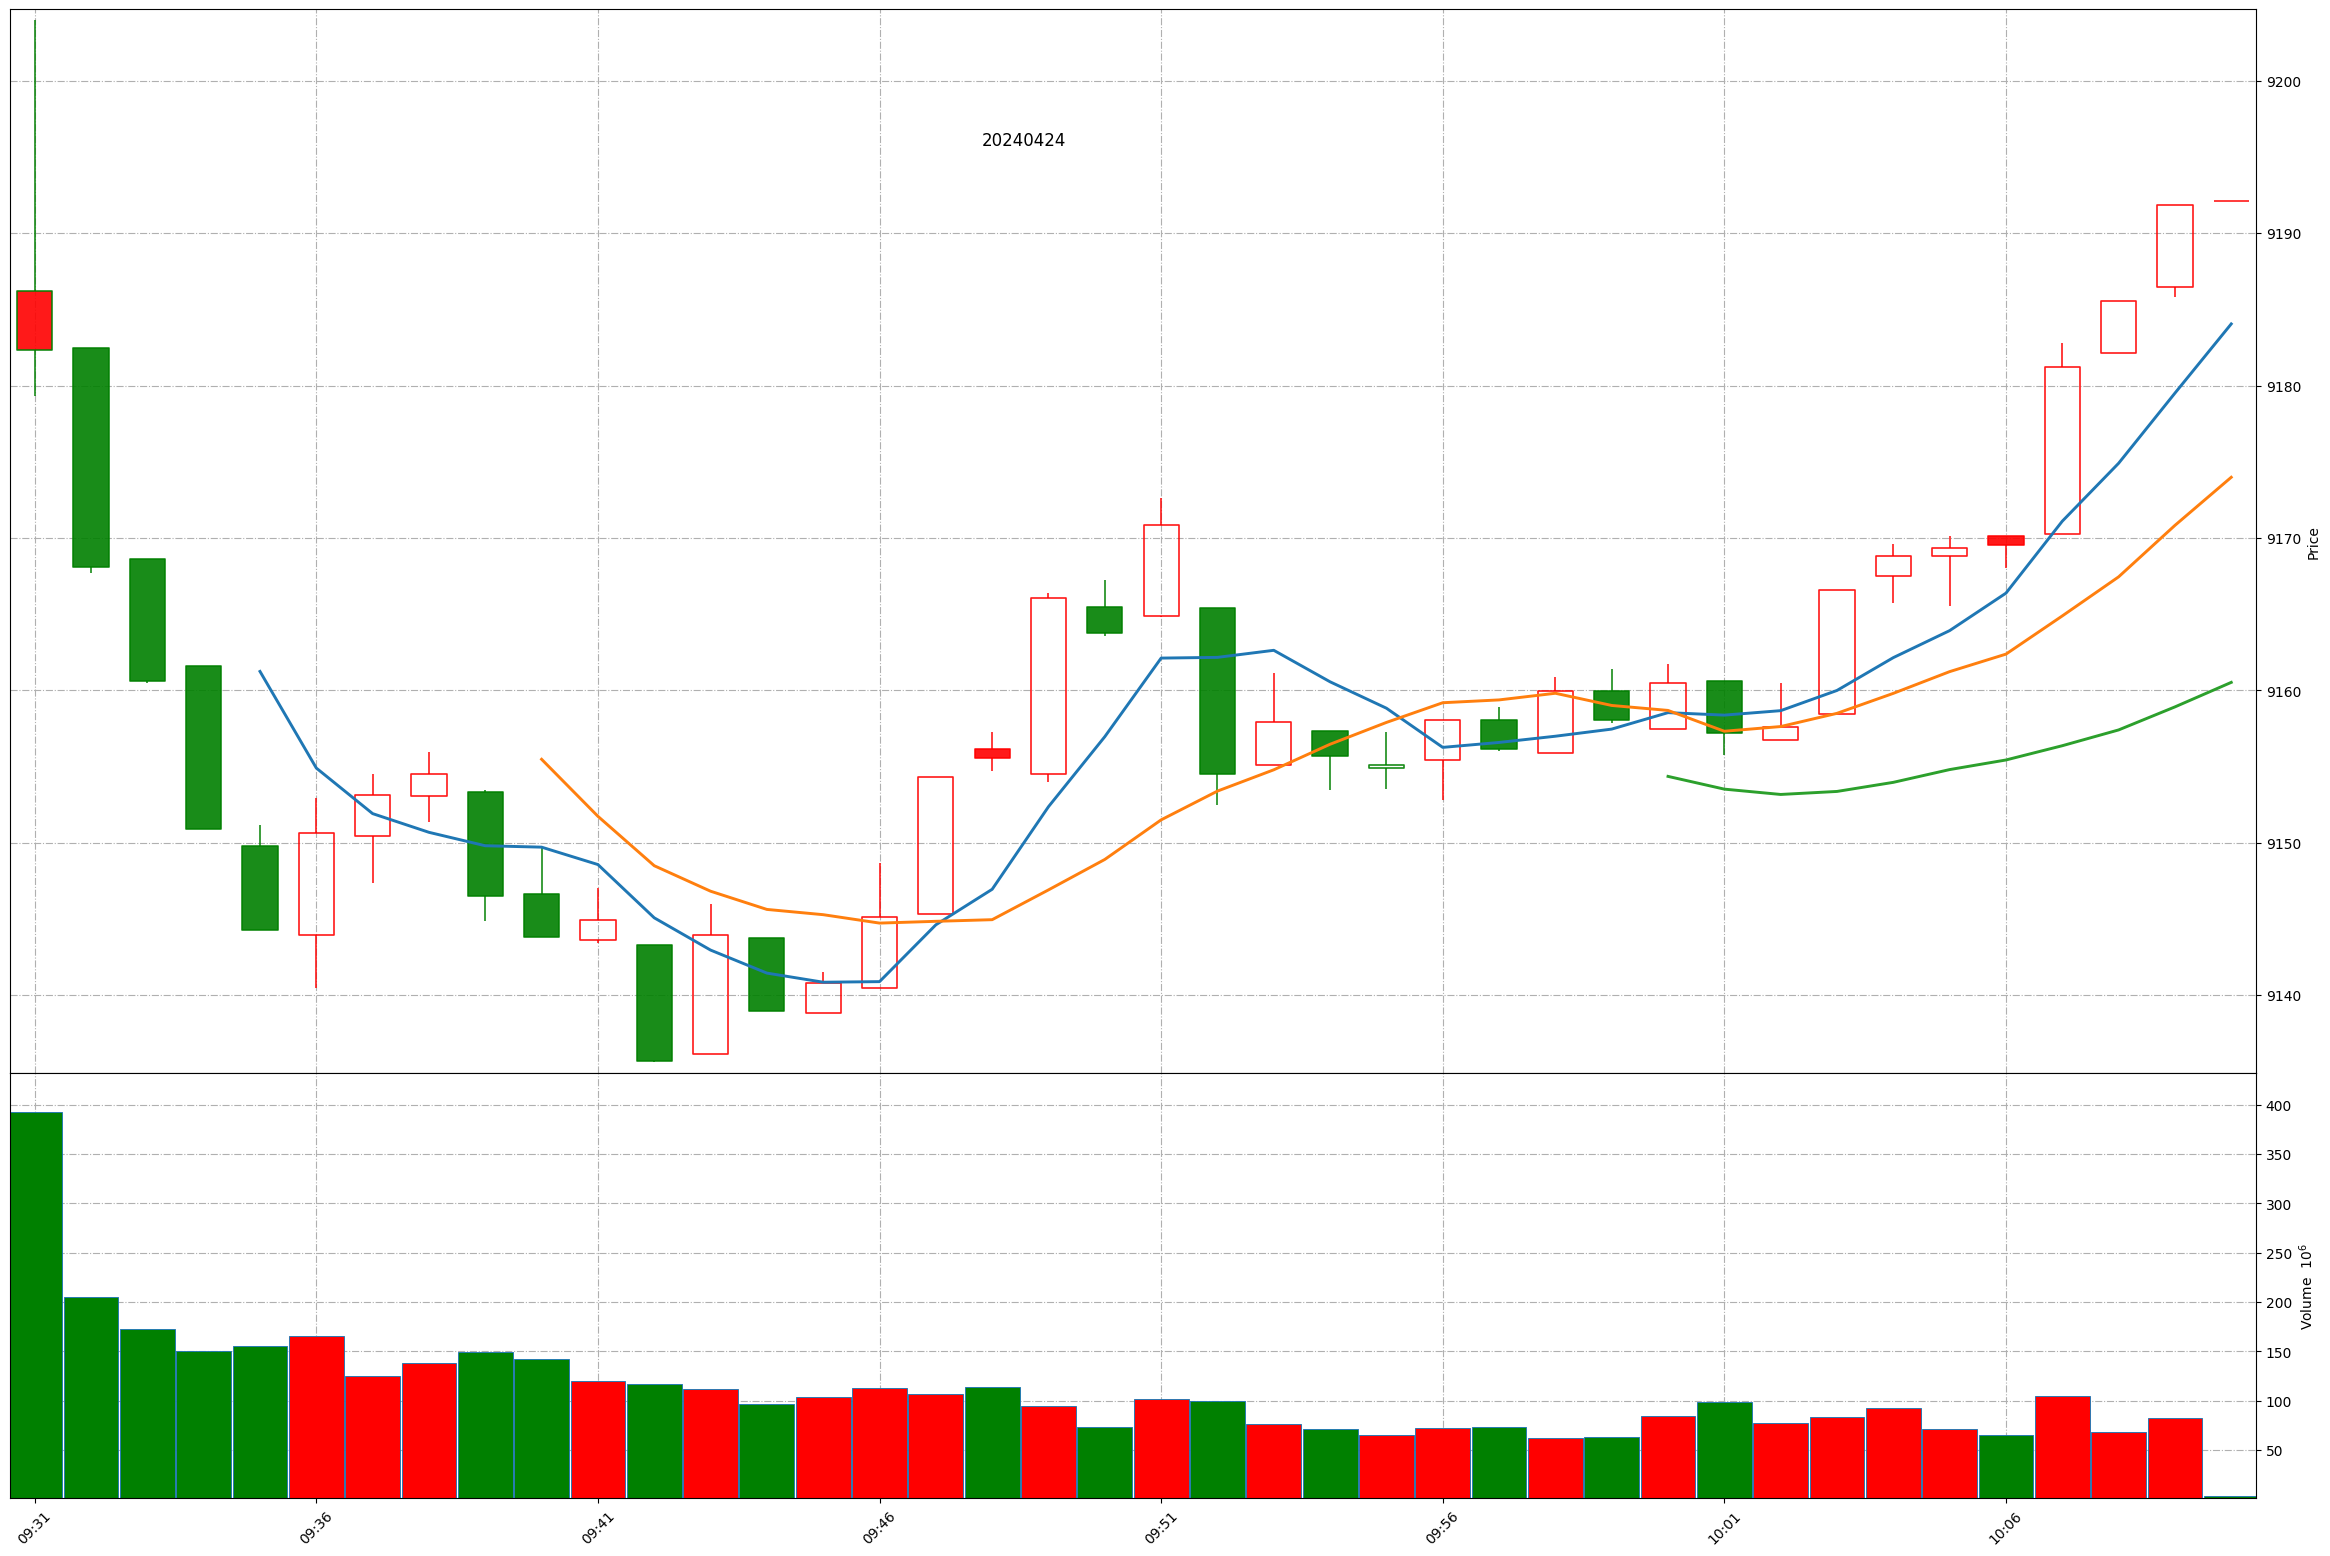
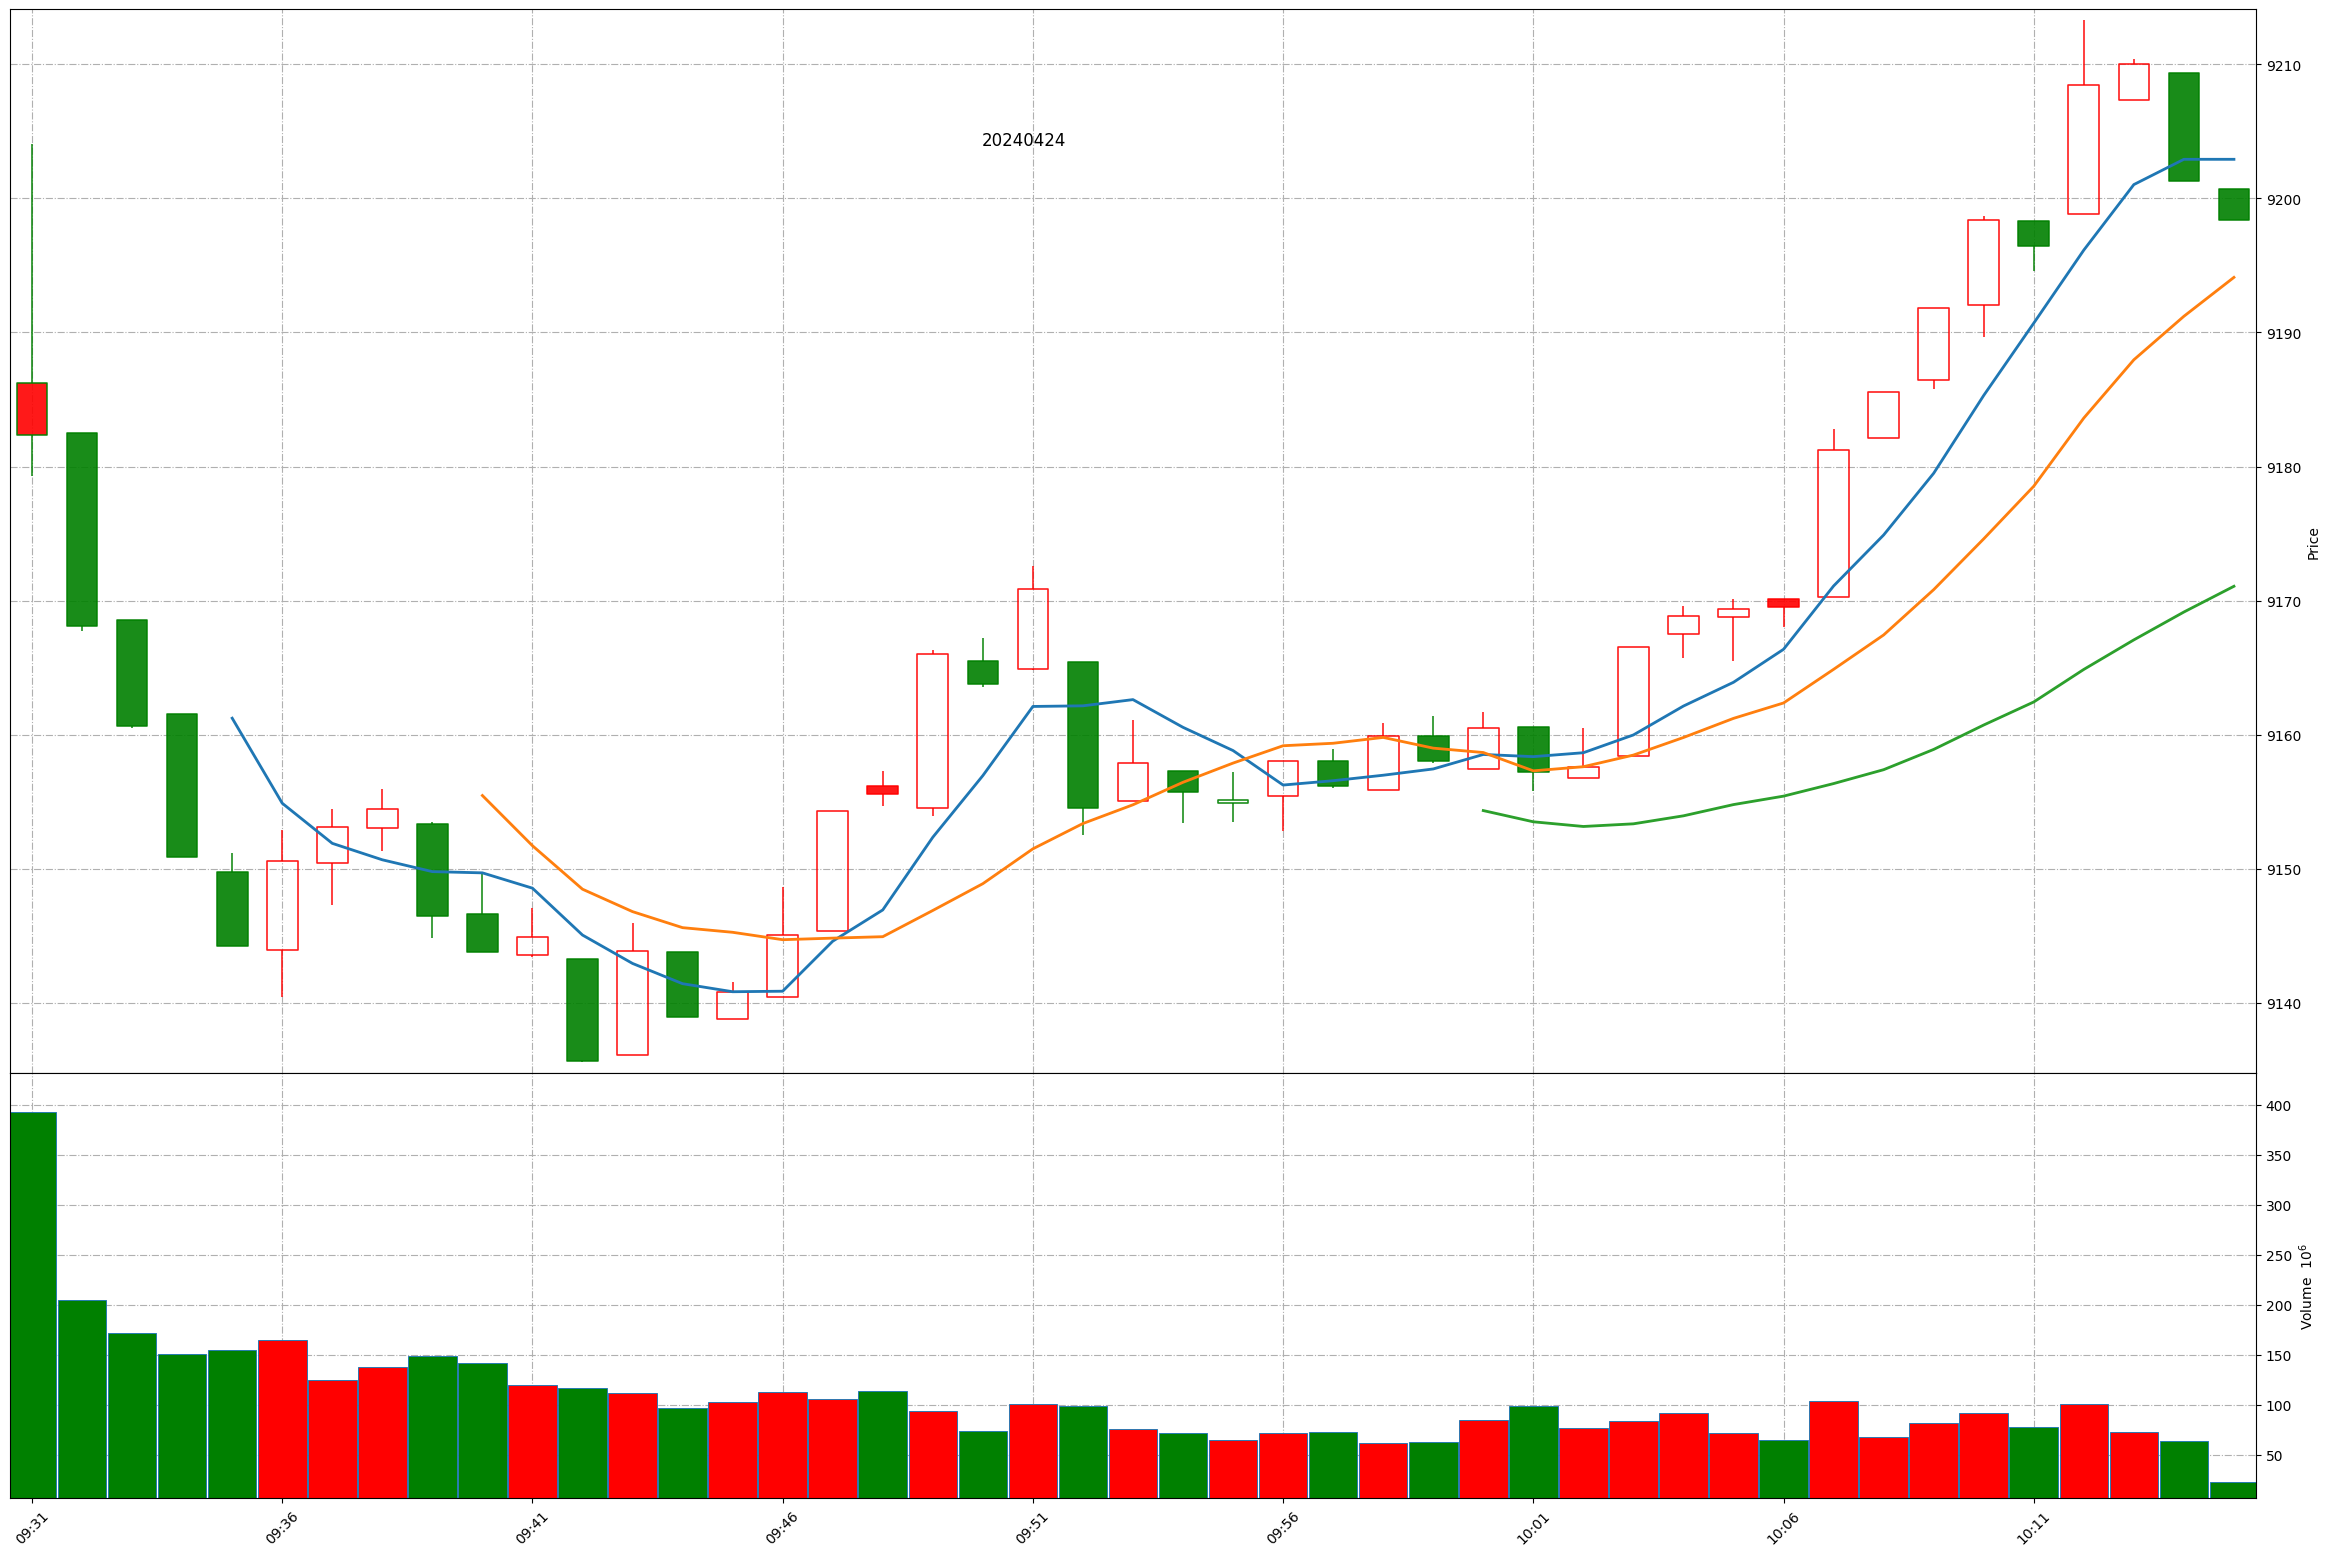
Github action update at 2024-04-24 10:14:41.

diff --git a/README.md b/README.md
@@ -1,11 +1,11 @@
 
 # Daily-A-share-market-quotes 每日 A 股指数（5min 更新）- 20240424
 
-### 上证指数 20240424 10:9
+### 上证指数 20240424 10:14
 ![](./fig/2024/4/20240424-sh000001.png)
 
-### 深证成指 20240424 10:9
+### 深证成指 20240424 10:14
 ![](./fig/2024/4/20240424-sz399001.png)
 
-### 北证50 20240424 10:9
+### 北证50 20240424 10:14
 ![](./fig/2024/4/20240424-bj899050.png)
